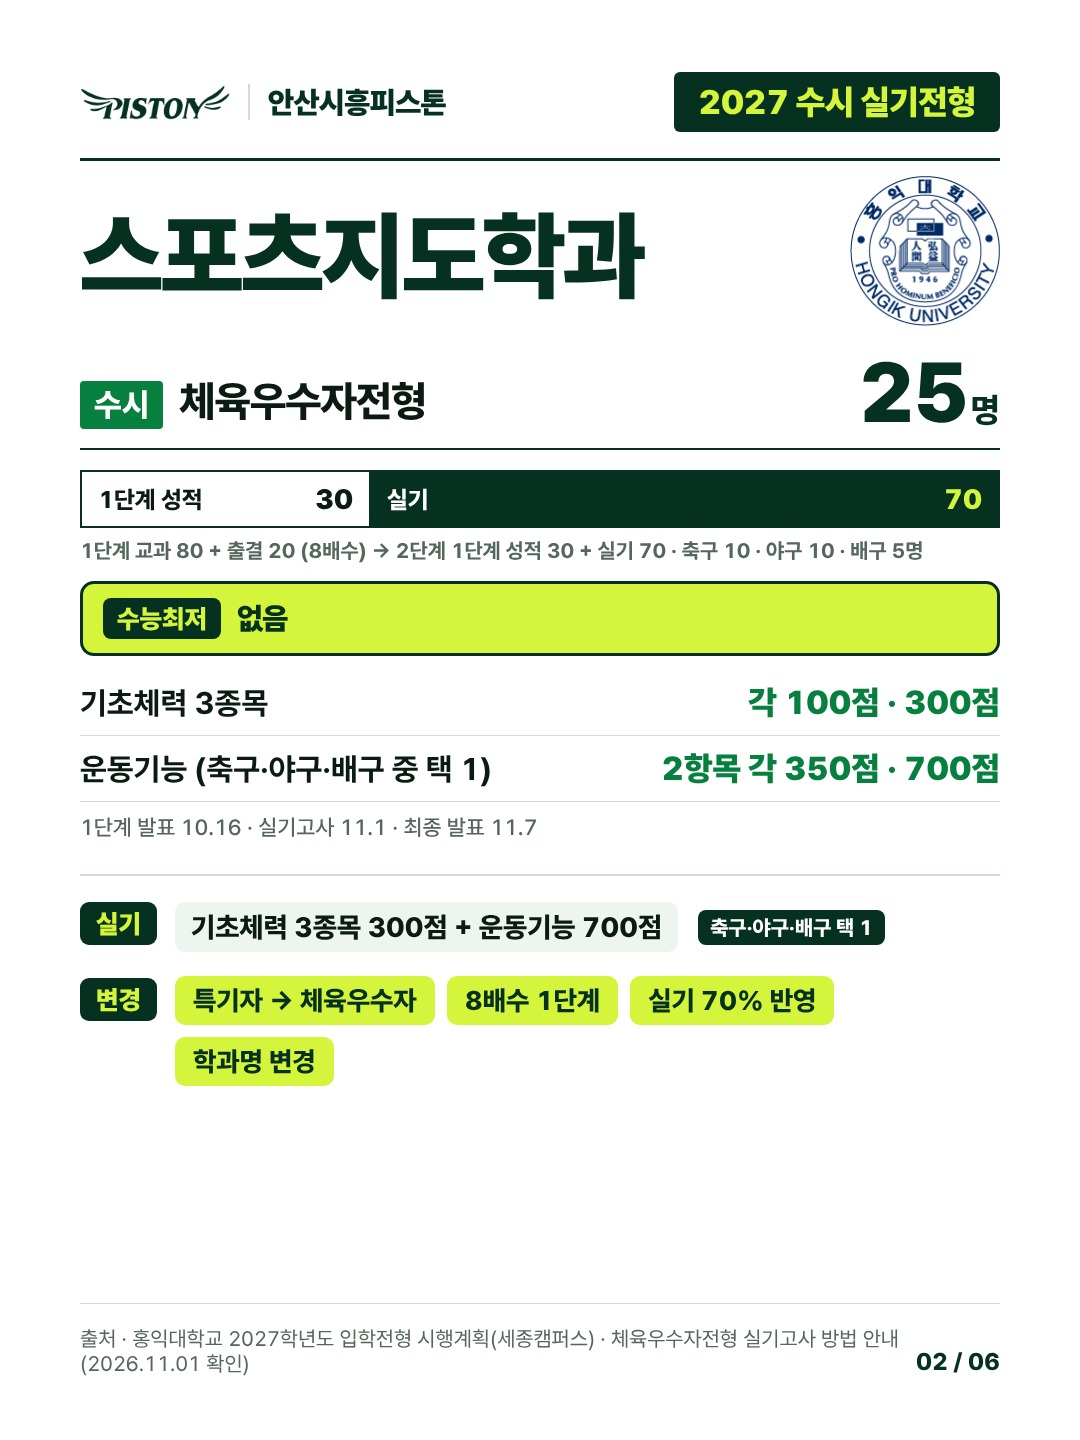
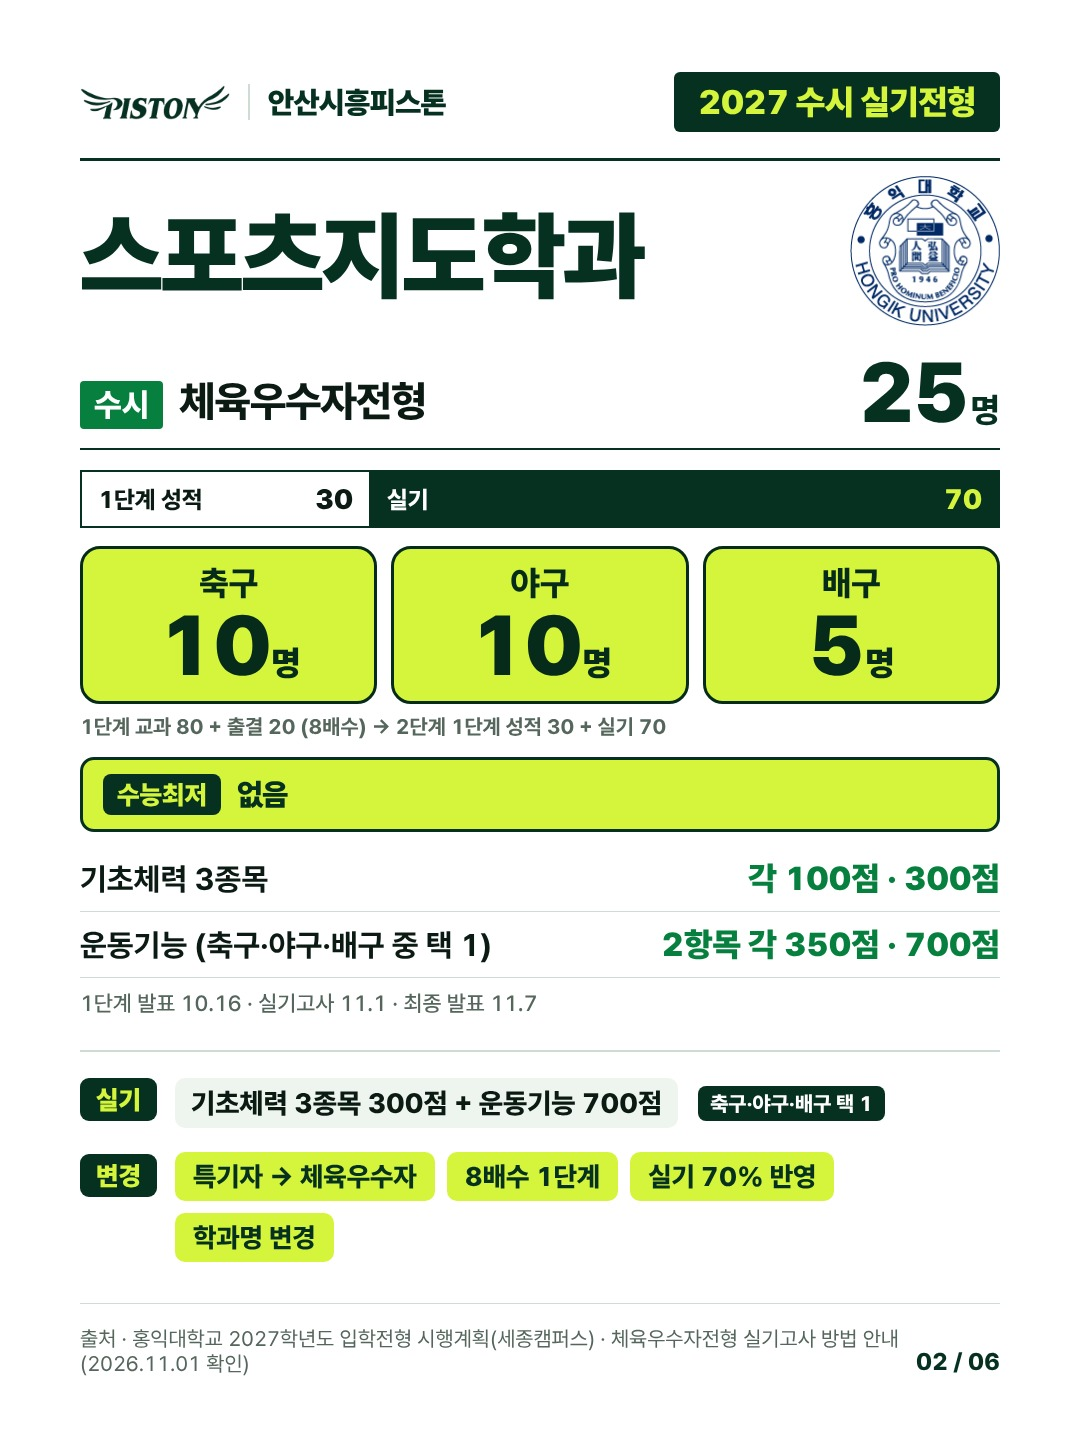
홍익대 종목별 인원 강조
Claude-Session: https://claude.ai/code/session_01EGTn7G8nWP1yv5M2jqmoFb

Changed region(s): [[0.0611, 0.375, 0.9472, 0.875]]

diff --git a/social/out/hongik-susi-susi/blog.md b/social/out/hongik-susi-susi/blog.md
@@ -9,7 +9,7 @@
 
 ## 스포츠지도학과
 ### 수시 체육우수자전형 — 25명
-- 반영비율: 1단계 성적 30% + 실기 70% (1단계 교과 80 + 출결 20 (8배수) → 2단계 1단계 성적 30 + 실기 70 · 축구 10 · 야구 10 · 배구 5명)
+- 반영비율: 1단계 성적 30% + 실기 70% (1단계 교과 80 + 출결 20 (8배수) → 2단계 1단계 성적 30 + 실기 70)
 - 실기종목: 기초체력 3종목 각 100점 · 300점, 운동기능 (축구·야구·배구 중 택 1) 2항목 각 350점 · 700점
 - 1단계 발표 10.16 · 실기고사 11.1 · 최종 발표 11.7
 
